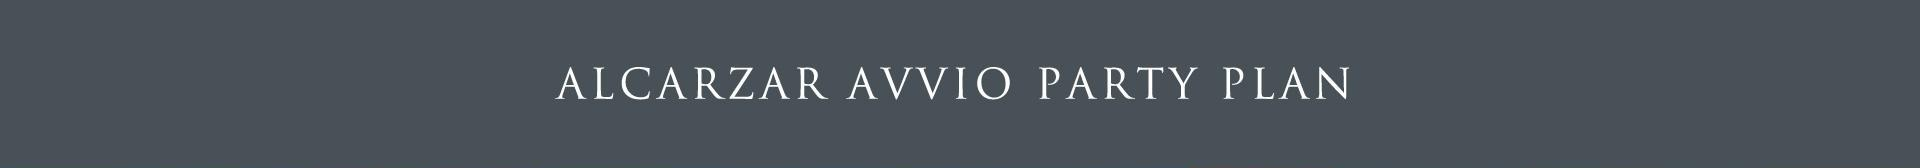
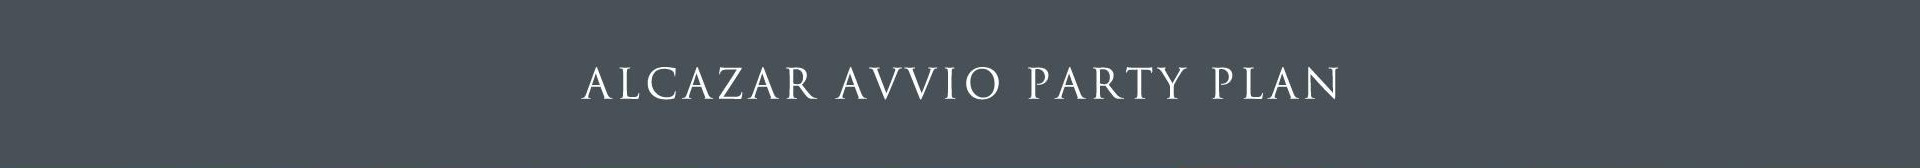
s

Changed region(s): [[0.2812, 0.3869, 0.7188, 0.5952]]

diff --git a/public/enkai/avo/index.html b/public/enkai/avo/index.html
@@ -1,5 +1,5 @@
 <!DOCTYPE html>
-<!-- @version v0001 | 2026-08-12 | memolead-enkai AVO アルカザールアヴィオ 宴会LP（画像版・連絡先バー固定フッタ・帯高さ最適化） | /public/enkai/avo/ -->
+<!-- @version v0002 | 2026-10-19 | 施設名表記をアルカーサル・アヴィオ／ヘッダーALCAZARに統一 | (旧 v0001 2026-08-12) memolead-enkai AVO アルカーサル・アヴィオ 宴会LP（画像版・連絡先バー固定フッタ・帯高さ最適化） | /public/enkai/avo/ -->
 <html lang="ja">
 <head>
 <!-- Google Tag Manager -->
@@ -12,11 +12,11 @@ j=d.createElement(s),dl=l!='dataLayer'?'&l='+l:'';j.async=true;j.src=
 <meta charset="UTF-8">
 <meta name="viewport" content="width=device-width, initial-scale=1">
 <title>宴会・ご宴席｜アルカーサル・アヴィオ｜忘新年会・同窓会・法事法要・各種宴会</title>
-<meta name="description" content="アルカザールアヴィオ（ALCAZAR AVVIO）の宴会・ご宴席。忘新年会・同窓会・歓送迎会・法事法要・各種宴会・展示会・研修会議に対応。コース／パーティー／ビュッフェの3スタイル、フリードリンク付き。最大150名様まで。ご予約・お問い合わせは TEL 092-665-0077。">
+<meta name="description" content="アルカーサル・アヴィオ（ALCAZAR AVVIO）の宴会・ご宴席。忘新年会・同窓会・歓送迎会・法事法要・各種宴会・展示会・研修会議に対応。コース／パーティー／ビュッフェの3スタイル、フリードリンク付き。最大150名様まで。ご予約・お問い合わせは TEL 092-665-0077。">
 <meta name="robots" content="index,follow">
 <link rel="canonical" href="https://memolead-lp-665477084949.asia-northeast1.run.app/public/enkai/avo/">
 <meta property="og:type" content="website">
-<meta property="og:title" content="宴会・ご宴席｜アルカザールアヴィオ">
+<meta property="og:title" content="宴会・ご宴席｜アルカーサル・アヴィオ">
 <meta property="og:description" content="忘新年会・同窓会・法事法要・各種宴会に。コース／パーティー／ビュッフェの3スタイル。最大150名様まで。">
 <meta property="og:image" content="https://memolead-lp-665477084949.asia-northeast1.run.app/public/enkai/avo/_assets/lp/lp-01.jpg">
 <meta name="format-detection" content="telephone=no">
@@ -24,7 +24,7 @@ j=d.createElement(s),dl=l!='dataLayer'?'&l='+l:'';j.async=true;j.src=
 *{margin:0; padding:0; box-sizing:border-box}
 html,body{background:#fff}
 img{display:block; border:0}
-/* 固定ヘッダー（ALCARZAR AVVIO PARTY PLAN） */
+/* 固定ヘッダー（ALCAZAR AVVIO PARTY PLAN） */
 header.fx{position:fixed; top:0; left:0; right:0; z-index:1000; background:#495058; line-height:0}
 header.fx .hwrap{max-width:960px; margin:0 auto}
 header.fx img{width:100%}
@@ -45,12 +45,12 @@ height="0" width="0" style="display:none;visibility:hidden"></iframe></noscript>
 <!-- End Google Tag Manager (noscript) -->
 
 <header class="fx" id="fxHeader">
-  <div class="hwrap"><img id="fxImg" src="_assets/lp/lp-header.jpg" alt="ALCARZAR AVVIO PARTY PLAN"></div>
+  <div class="hwrap"><img id="fxImg" src="_assets/lp/lp-header.jpg?v=20261019" alt="ALCAZAR AVVIO PARTY PLAN"></div>
 </header>
 
 <main class="lp" id="lp">
   <div class="body-wrap">
-    <img class="s" src="_assets/lp/lp-01.jpg" alt="アルカザールアヴィオ 宴会プラン 忘新年会" fetchpriority="high" decoding="async">
+    <img class="s" src="_assets/lp/lp-01.jpg" alt="アルカーサル・アヴィオ 宴会プラン 忘新年会" fetchpriority="high" decoding="async">
     <img class="s" src="_assets/lp/lp-02.jpg" alt="" loading="lazy" decoding="async">
     <img class="s" src="_assets/lp/lp-03.jpg" alt="" loading="lazy" decoding="async">
     <img class="s" src="_assets/lp/lp-04.jpg" alt="" loading="lazy" decoding="async">
@@ -62,13 +62,13 @@ height="0" width="0" style="display:none;visibility:hidden"></iframe></noscript>
 </main>
 
 <footer class="fx" id="fxFooter">
-  <div class="fwrap"><a href="tel:0926650077" aria-label="アルカザールアヴィオに電話する（092-665-0077）"><img id="fxFootImg" src="_assets/lp/lp-footer.jpg" alt="ALCAZAR AVVIO 〒813-0041 福岡県福岡市東区水谷2丁目52-8 TEL.092-665-0077 定休日 毎週火・水曜日定休（祝日の場合は営業） 受付時間 10:00〜19:00"></a></div>
+  <div class="fwrap"><a href="tel:0926650077" aria-label="アルカーサル・アヴィオに電話する（092-665-0077）"><img id="fxFootImg" src="_assets/lp/lp-footer.jpg" alt="ALCAZAR AVVIO 〒813-0041 福岡県福岡市東区水谷2丁目52-8 TEL.092-665-0077 定休日 毎週火・水曜日定休（祝日の場合は営業） 受付時間 10:00〜19:00"></a></div>
 </footer>
 
 <script type="application/ld+json">
 {
   "@context":"https://schema.org","@type":"EventVenue",
-  "name":"アルカザールアヴィオ",
+  "name":"アルカーサル・アヴィオ",
   "alternateName":"ALCAZAR AVVIO",
   "description":"忘新年会・同窓会・歓送迎会・法事法要・各種宴会・展示会・研修会議に対応する宴会会場。コース／パーティー／ビュッフェの3スタイル、フリードリンク付き。最大150名様まで。",
   "telephone":"+81-92-665-0077",
